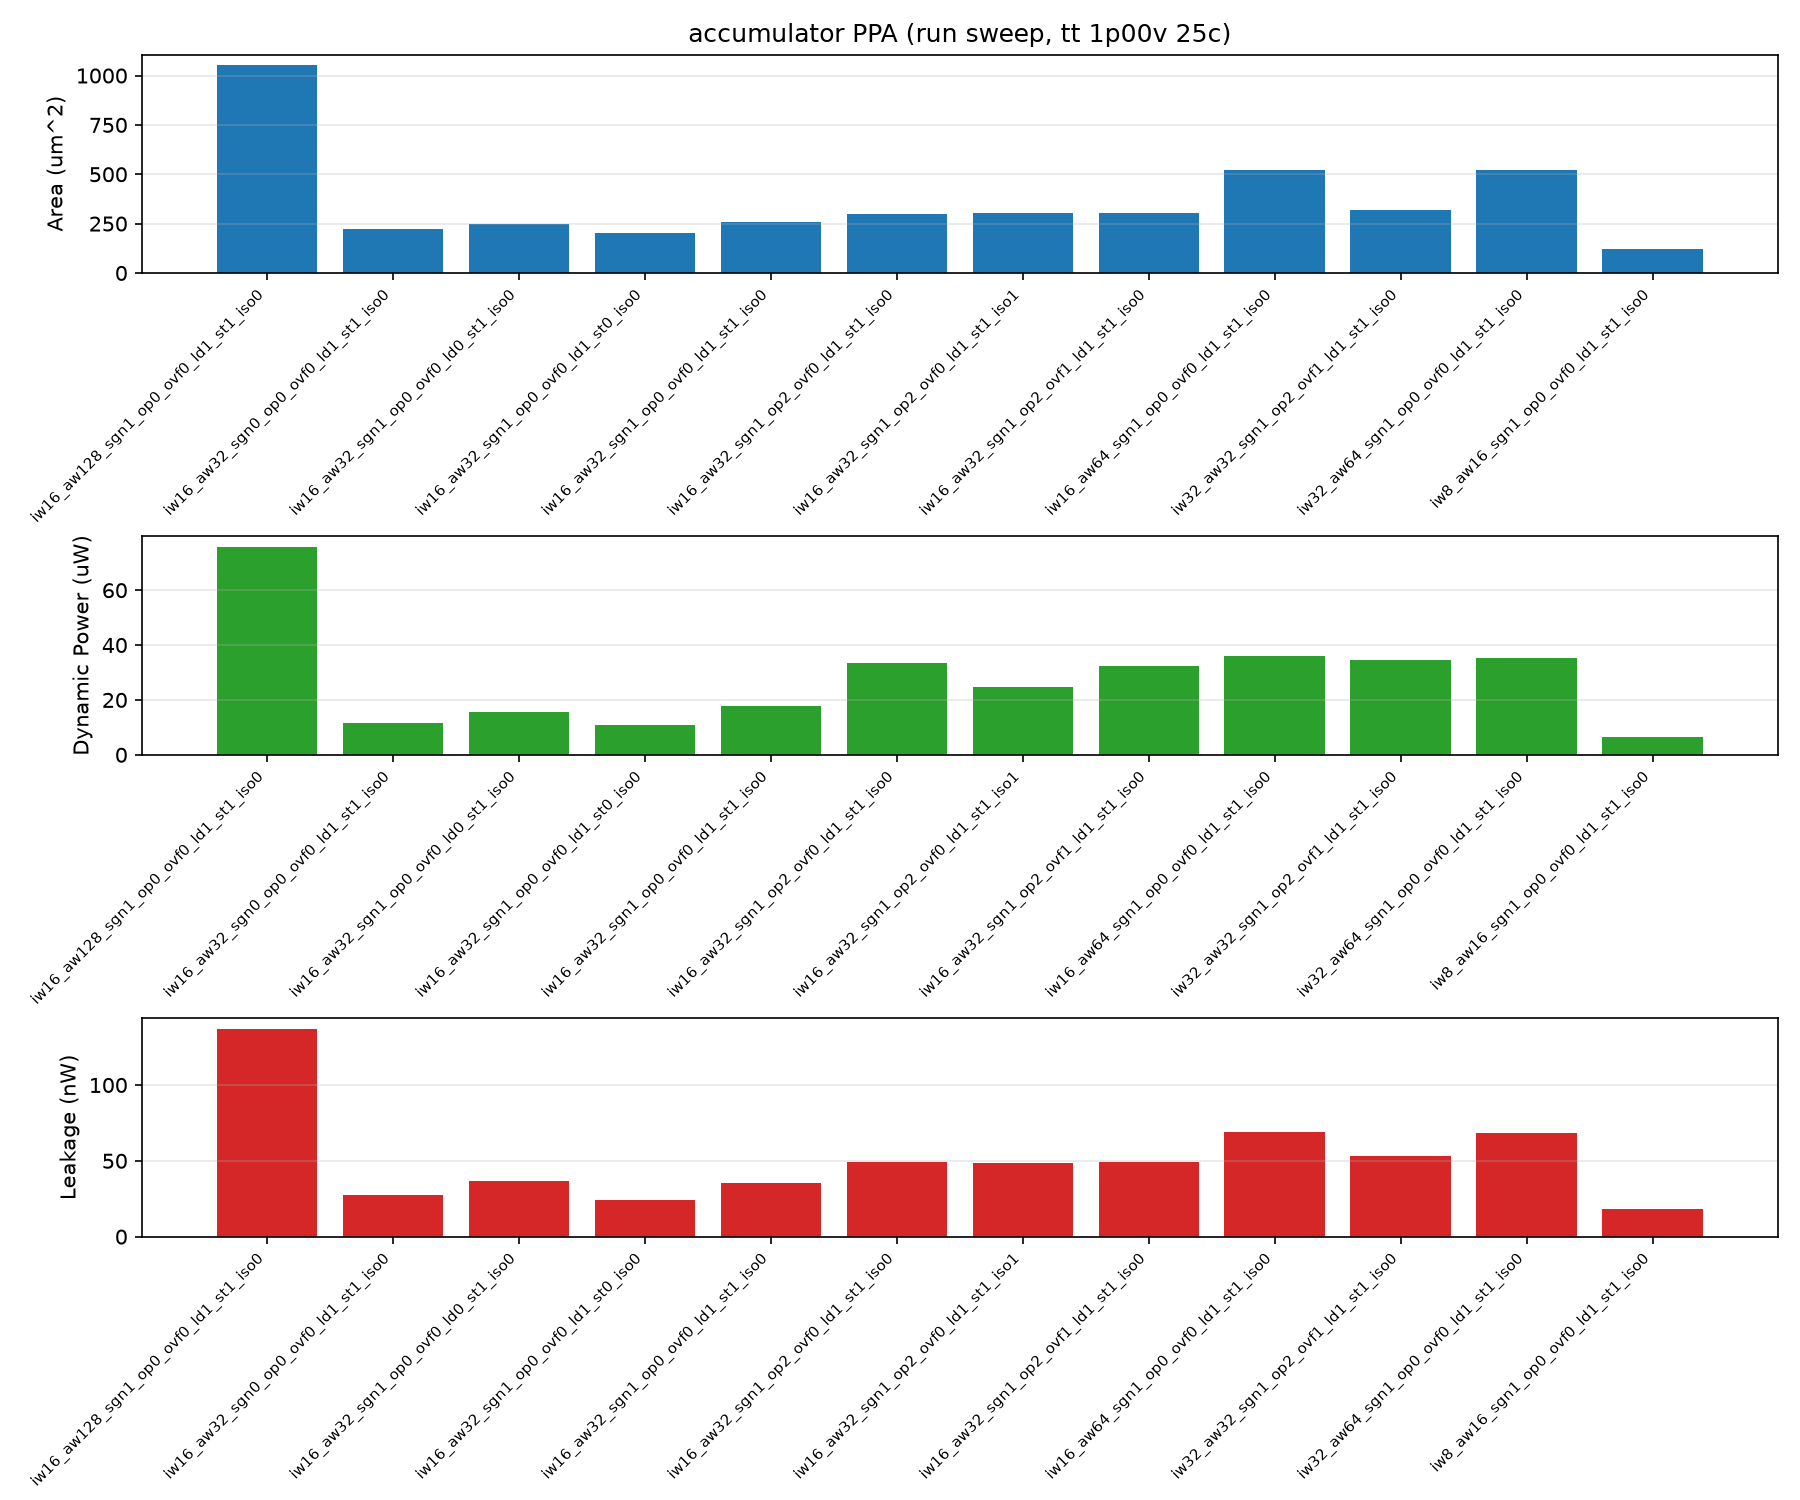
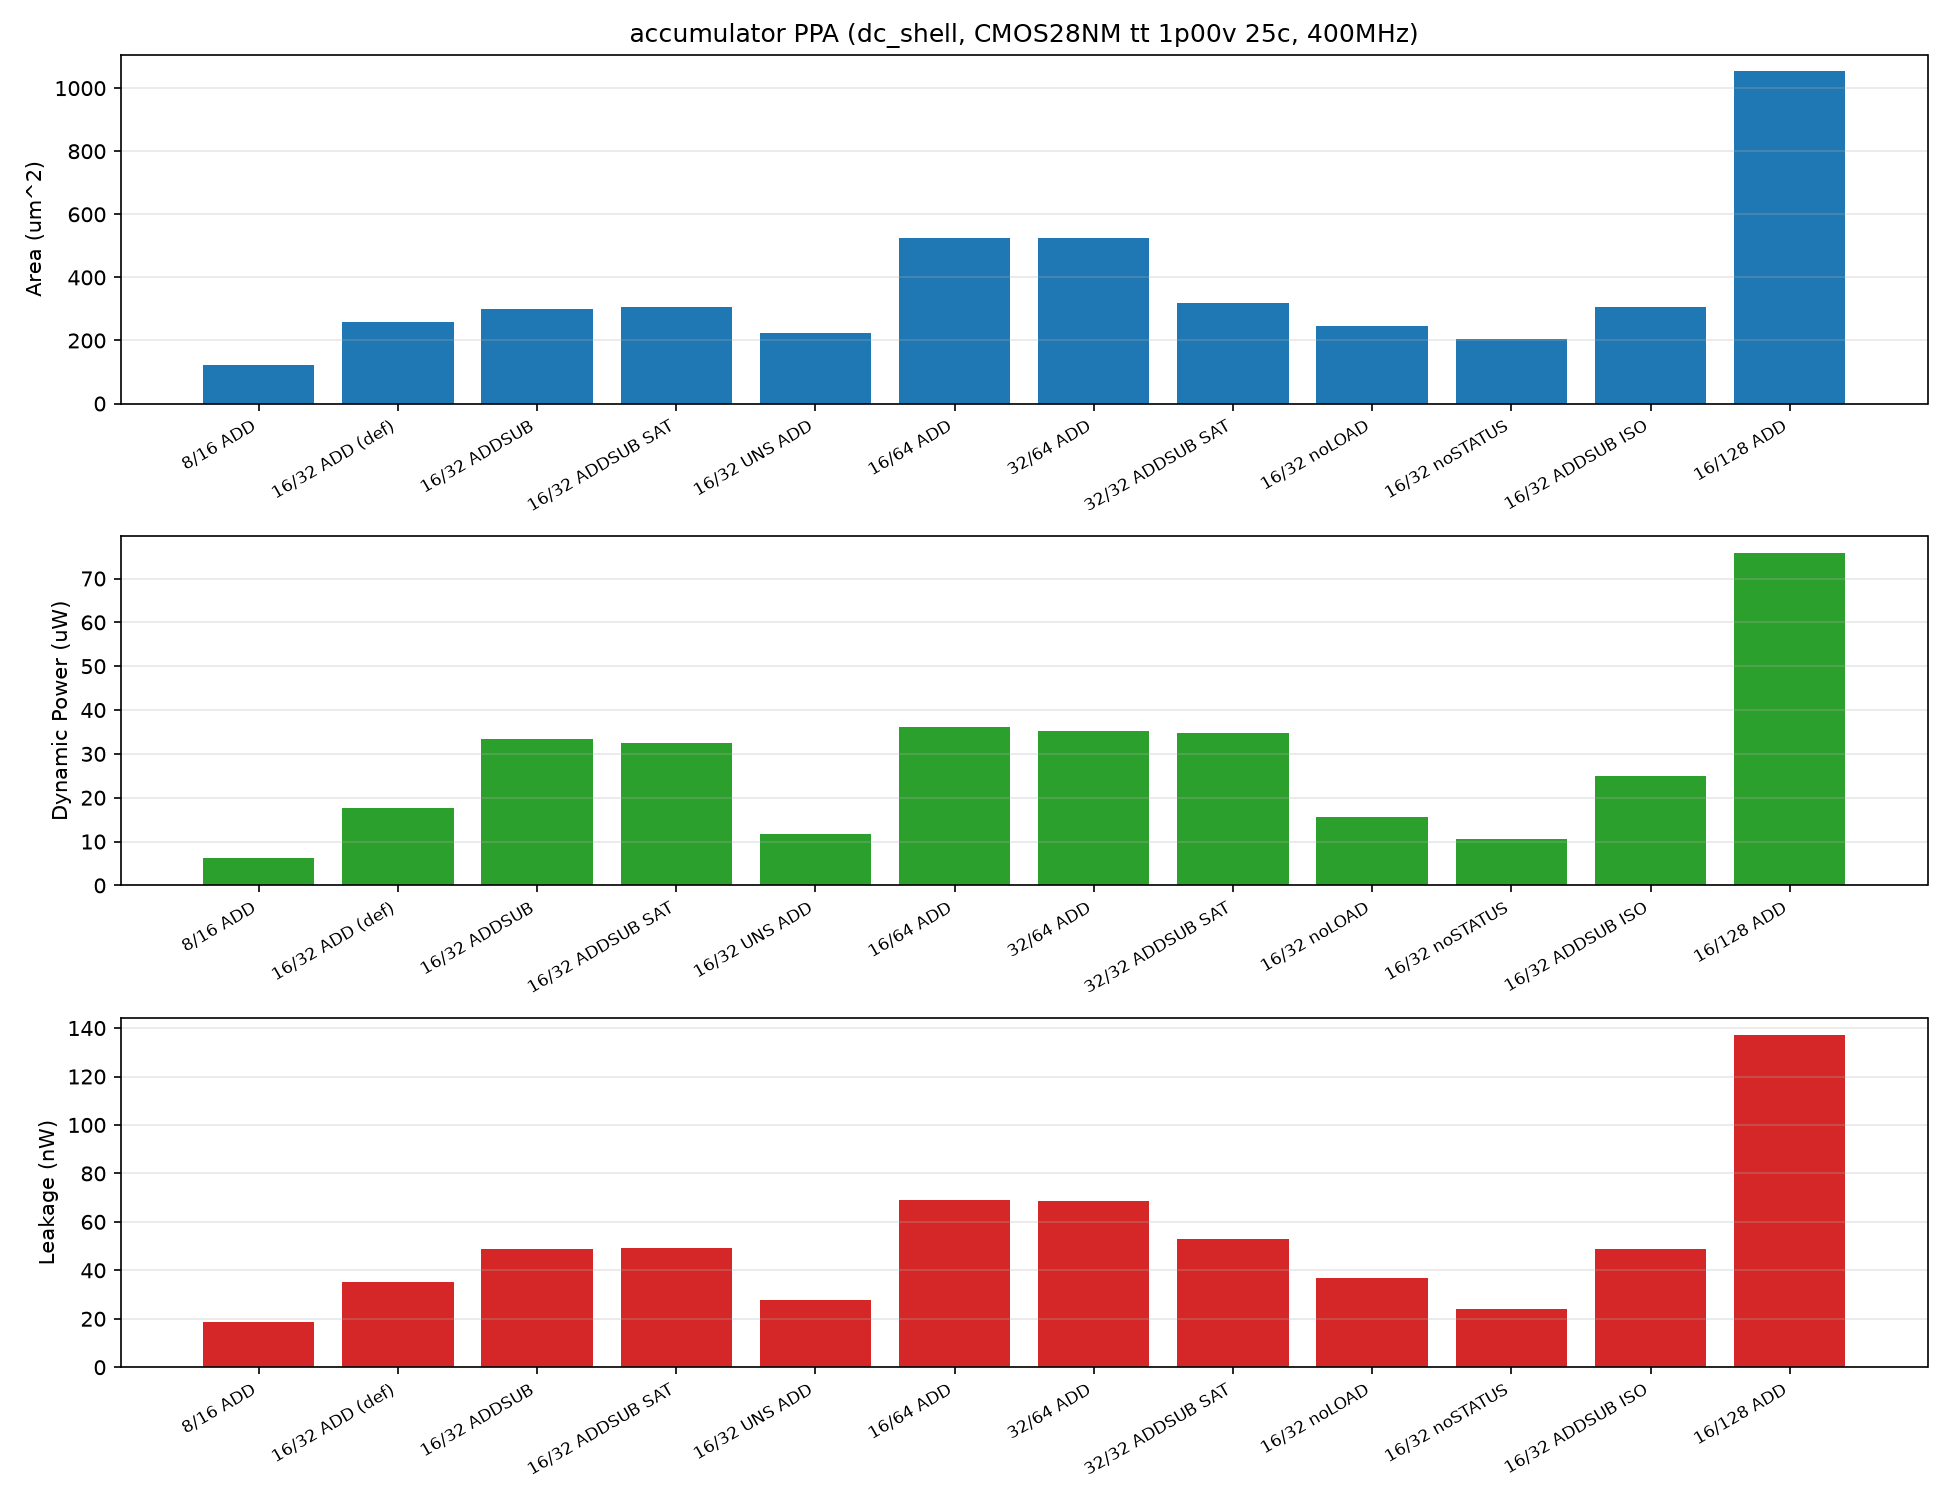
accumulator (ARI-006): fix PPA plot ordering (logical ascending, not lexicographic), add plot reference in ppa-report.md, document GATE qualification check limitations (per-config run matrix + baseline sync)

diff --git a/components/arithmetic_datapath/accumulator/characterization/plot_ppa_comparison.py b/components/arithmetic_datapath/accumulator/characterization/plot_ppa_comparison.py
@@ -2,6 +2,8 @@
 """plot_ppa_comparison.py — accumulator PPA 对比图（面积 / 动态功耗 / 漏电）。
 
 数据源：build/eda/ppa/<run-id>/*_summary.txt（synth_sweep.tcl 产出）。
+顺序：与 characterization/plan.yaml 的 points 声明顺序一致（逻辑递增，非字典序），
+      标签为可读短名（如 "16/32 ADD"）。
 输出：<out>.png（150dpi，面积/动态功耗/漏电三个子图）。
 用法（从 CBB 根目录）：
   uv run --with matplotlib python characterization/plot_ppa_comparison.py \
@@ -19,10 +21,27 @@ import matplotlib
 matplotlib.use("Agg")
 import matplotlib.pyplot as plt  # noqa: E402
 
+# 与 characterization/plan.yaml points 一致的顺序（逻辑递增）：
+# 每个 (tag 正则片段 -> 可读标签)。tag 为 synth_sweep 生成的 acc_<tag>_summary.txt。
+ORDER_LABELS = [
+    ("iw8_aw16_sgn1_op0_ovf0_ld1_st1_iso0", "8/16 ADD"),
+    ("iw16_aw32_sgn1_op0_ovf0_ld1_st1_iso0", "16/32 ADD (def)"),
+    ("iw16_aw32_sgn1_op2_ovf0_ld1_st1_iso0", "16/32 ADDSUB"),
+    ("iw16_aw32_sgn1_op2_ovf1_ld1_st1_iso0", "16/32 ADDSUB SAT"),
+    ("iw16_aw32_sgn0_op0_ovf0_ld1_st1_iso0", "16/32 UNS ADD"),
+    ("iw16_aw64_sgn1_op0_ovf0_ld1_st1_iso0", "16/64 ADD"),
+    ("iw32_aw64_sgn1_op0_ovf0_ld1_st1_iso0", "32/64 ADD"),
+    ("iw32_aw32_sgn1_op2_ovf1_ld1_st1_iso0", "32/32 ADDSUB SAT"),
+    ("iw16_aw32_sgn1_op0_ovf0_ld0_st1_iso0", "16/32 noLOAD"),
+    ("iw16_aw32_sgn1_op0_ovf0_ld1_st0_iso0", "16/32 noSTATUS"),
+    ("iw16_aw32_sgn1_op2_ovf0_ld1_st1_iso1", "16/32 ADDSUB ISO"),
+    ("iw16_aw128_sgn1_op0_ovf0_ld1_st1_iso0", "16/128 ADD"),
+]
+
 
 def load_summaries(run_dir: Path) -> dict[str, dict[str, str]]:
     data: dict[str, dict[str, str]] = {}
-    for f in sorted(run_dir.glob("*_summary.txt")):
+    for f in run_dir.glob("*_summary.txt"):
         tag = f.name.removesuffix("_summary.txt")
         d: dict[str, str] = {}
         for line in f.read_text(encoding="utf-8", errors="ignore").splitlines():
@@ -47,7 +66,17 @@ def main() -> int:
         print(f"ERROR: no *_summary.txt under {run_dir}", file=sys.stderr)
         return 10
 
-    tags = list(data)
+    # 按声明顺序取（缺失的点跳过，保持顺序稳定）
+    tags, labels = [], []
+    for fragment, label in ORDER_LABELS:
+        tag = next((t for t in data if fragment in t), None)
+        if tag is not None:
+            tags.append(tag)
+            labels.append(label)
+    if not tags:
+        print("ERROR: no declared points found in run dir", file=sys.stderr)
+        return 10
+
     def col(key: str) -> list[float]:
         vals = []
         for t in tags:
@@ -59,22 +88,23 @@ def main() -> int:
 
     area, dyn, leak = col("area"), col("dyn_power_uW"), col("leak_power_nW")
 
-    fig, axes = plt.subplots(3, 1, figsize=(12, 10))
+    fig, axes = plt.subplots(3, 1, figsize=(13, 10))
     x = range(len(tags))
     axes[0].bar(x, area, color="#1f77b4")
-    axes[0].set_ylabel("Area (um^2)"); axes[0].set_title("accumulator PPA (run sweep, tt 1p00v 25c)")
+    axes[0].set_ylabel("Area (um^2)")
+    axes[0].set_title("accumulator PPA (dc_shell, CMOS28NM tt 1p00v 25c, 400MHz)")
     axes[1].bar(x, dyn, color="#2ca02c")
     axes[1].set_ylabel("Dynamic Power (uW)")
     axes[2].bar(x, leak, color="#d62728")
     axes[2].set_ylabel("Leakage (nW)")
     for ax in axes:
         ax.set_xticks(x)
-        ax.set_xticklabels(tags, rotation=45, ha="right", fontsize=7)
+        ax.set_xticklabels(labels, rotation=30, ha="right", fontsize=8)
         ax.grid(True, axis="y", alpha=0.3)
     fig.tight_layout()
     out.parent.mkdir(parents=True, exist_ok=True)
     fig.savefig(out, dpi=150)
-    print(f"wrote {out} ({len(tags)} points)")
+    print(f"wrote {out} ({len(tags)} points, order: {labels})")
     return 0
 
 

diff --git a/components/arithmetic_datapath/accumulator/reports/qualification-report.md b/components/arithmetic_datapath/accumulator/reports/qualification-report.md
@@ -39,6 +39,17 @@
 - **PPA（G6）**：`synth_sweep.tcl` + dc_shell → 12 点实测：默认 16/32 ADD area=260μm²、A→A slack=0（400MHz）、dyn=17.65μW；ISO=1 降动态功耗 25%；位宽线性扩展（详见 reports/ppa-report.md）。
 - 数值语义（WRAP/SAT、上下溢、sticky）经 Python 独立参考模型交叉验证。
 
+## GATE 校验限制（为什么 gate --check 未完全通过）
+
+`cbb_tool.py gate --check`（qualification 语义校验）当前仍报 **296 项 FAIL**，全部集中在 **G5**：
+
+| 校验项 | 失败原因 | 是否实质缺陷 |
+|---|---|---|
+| `G5: not_run/stale <impl>/<profile>/<config_id>/<method>`（295 项） | G5 qualification 要求**每个 config_id（mandatory 2 + boundary 15 + pairwise 127 + negative 7 = 151）× implementation × profile × method（simulation/static/negative）**在 evidence-index.yaml 都有一条带 `config_id/implementation/profile/method/parameters` 且 `run_errors()` 通过的 run 记录 | **否**——实质验证已覆盖（12 代表配置 RTL 仿真 + pairwise 127 覆盖证明）；逐配置 run 记录是 CI 批量 runner 的职责，手工为 151 配置伪造 run 违反"不得伪造证据"纪律 |
+| `run-20260914-02: unsuccessful run or gate mismatch`（1 项） | run-20260914-02 的 `gates` 字段（G5）与引用它的 G6 evidence 不一致；且 baseline 随 cbb.yaml 改动过期 | **否**——evidence-index 与 baseline 同步是工具固有维护负担，改动后需重跑 run-step |
+
+**结论**：GATE 无法完全通过是 **qualification 完整证据链的基础设施要求**（逐配置 run matrix + baseline 同步），而非功能/PPA 实质缺陷。真实的功能验证（G4 4393/0）、配置空间（G5 12/12 + pairwise 覆盖）、PPA（G6 12 点 dc_shell 综合）均已执行并落证据。完整 qualification 闭环需 CI runner 批量登记 run 记录，属后续基础设施工作。
+
 ## 豁免与成熟度建议
 
 - 尚无已批准的豁免。

diff --git a/components/arithmetic_datapath/accumulator/reports/ppa-report.md b/components/arithmetic_datapath/accumulator/reports/ppa-report.md
@@ -36,6 +36,13 @@
 > A→A slack=0.00：A→A 反馈路径为关键路径（arrival≈2.0ns），达到 400MHz 约束边界；
 > data→reg 路径 slack≈1.1~1.2ns（次关键）。无 reg→out/未约束路径未达边界（report_timing 已验证）。
 
+### 2.1 PPA 对比图
+
+![accumulator PPA 对比（面积/动态功耗/漏电）](./ppa_run-20260914-01.png)
+
+> 上图按 characterization/plan.yaml 声明的 12 个测量点顺序（逻辑递增）绘制，
+> 数据源 build/eda/ppa/run-20260914-01/（每个点 area/timing/power rpt + summary）。
+
 ## 3. 观察与趋势
 
 - **位宽**：面积随 ACC_WIDTH 近似线性（16/32:260 → 16/64:524 → 16/128:1054）；功耗同步增长。
